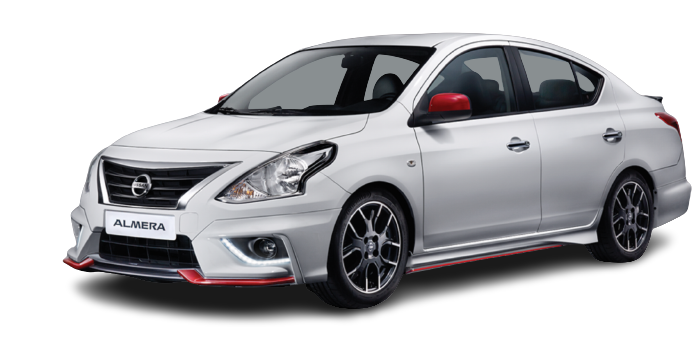
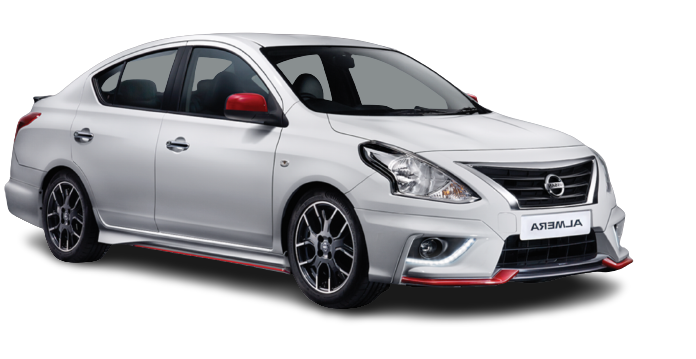
responsividade

diff --git a/src/components/car/style.scss b/src/components/car/style.scss
@@ -77,3 +77,244 @@
         }
     }
 }
+
+@media screen and (max-width: 1718px) {
+
+    .car-main-container {
+        .car {
+            .show-car {
+                .poste-img {
+                    left: 600px;
+                }
+            }
+        }
+    }
+
+}
+
+@media screen and (max-width: 1678px) {
+
+    .car-main-container {
+        .car {
+            .show-car {
+                .circle {
+                    width: 70%;
+                    max-height: 700px;
+                    bottom: -20px;
+                }
+            }
+        }
+    }
+
+}
+
+@media screen and (max-width: 1472px) {
+
+    .car-main-container {
+        .car {
+            .show-car {
+                .circle {
+                    width: 80%;
+                    bottom: -20px;
+                    left: -80px;
+                }
+
+                .poste-img {
+                    left: 500px;
+                }
+            }
+        }
+    }
+}
+
+.car-main-container-mobile {
+    display: none;
+}
+
+@media screen and (max-width: 1286px) {
+
+    .car-main-container {
+        width: 100%;
+
+        .car {
+            display: flex;
+            flex-direction: column;
+
+            .desc-car {
+                z-index: 999;
+                width: 100vh;
+
+                div:nth-child(1) {
+                    width: 100%;
+                    font-size: 4rem;
+                    text-align: center;
+                }
+            }
+
+            .show-car {
+                width: 100vh;
+
+                .circle {
+                    width: 80%;
+                    bottom: -20px;
+                }
+
+                .poste-img {
+                    max-width: 300px;
+                }
+            }
+        }
+    }
+}
+
+@media screen and (max-width: 1172px) {
+    .car-main-container {
+        display: none;
+    }
+
+    .car-main-container-mobile {
+        width: 100vw;
+        display: block;
+
+        .car-mobile {
+            width: 90%;
+            display: flex;
+            position: relative;
+            align-items: center;
+            flex-direction: column;
+
+            .neon {
+                top: 33%;
+                z-index: 1;
+                max-width: 80%;
+                position: absolute;
+            }
+
+            div:nth-child(1) {
+                width: 100%;
+                font-size: 4rem;
+                margin-top: 220px;
+                text-align: center;
+                margin-bottom: 20px;
+                color: rgb(255, 255, 255);
+                font-family: 'Lato', sans-serif;
+            }
+
+            div:nth-child(2) {
+                width: 100%;
+                margin-bottom: 150px;
+
+                font-size: .8rem;
+                text-align: center;
+                color: rgb(196, 196, 196);
+                font-family: 'Lato', sans-serif;
+            }
+
+            .car-img-mobile {
+                z-index: 9;
+                max-width: 100%;
+            }
+
+        }
+    }
+}
+
+@media screen and (max-width: 1172px) {
+    .car-main-container-mobile {
+        .car-mobile {
+            div:nth-child(1) {
+                font-size: 3rem;
+            }
+        }
+    }
+}
+
+@media screen and (max-width: 861px) {
+    .car-main-container-mobile {
+
+        .car-mobile {
+
+            
+            .neon {
+                top: 43%;
+            }
+
+            div:nth-child(1) {
+                width: 80%;
+            }
+
+            div:nth-child(2) {
+                width: 60%;
+            }
+        }
+    }
+}
+
+@media screen and (max-width: 692px) {
+    .car-main-container-mobile {
+
+        .car-mobile {
+
+            .neon {
+                top: 53%;
+            }
+
+
+            div:nth-child(1) {
+                width: 80%;
+            }
+
+            div:nth-child(2) {
+                width: 80%;
+            }
+        }
+    }
+}
+@media screen and (max-width: 571px) {
+    .car-main-container-mobile {
+
+        .car-mobile {
+
+            .neon {
+                top: 59%;
+            }
+
+            div:nth-child(1) {
+                font-size: 2rem;
+
+            }
+        }
+    }
+}
+@media screen and (max-width: 490px) {
+    .car-main-container-mobile {
+
+        .car-mobile {
+
+            .neon {
+                top: 66%;
+            }
+        }
+    }
+}
+@media screen and (max-width: 393px) {
+    .car-main-container-mobile {
+
+        .car-mobile {
+
+            .neon {
+                top: 69%;
+            }
+
+            div:nth-child(1) {
+                width: 60%;
+            }
+            div:nth-child(2) {
+                width: 60%;
+            }
+            .car-img-mobile {
+                width: 80%;
+            }
+        }
+    }
+}

diff --git a/src/components/car/index.jsx b/src/components/car/index.jsx
@@ -1,6 +1,7 @@
 import './style.scss'
-import React, { useEffect } from "react";
 import Logo from "../logo"
+import React, { useEffect } from "react";
+
 const Car = (props) => {
 
     useEffect(() => {
@@ -19,17 +20,26 @@ const Car = (props) => {
     return (
         <>
             <Logo />
-            <div className='car-main-container' id='car' style={{ transform: props.scale ? "scale(-1,1)" : "scale(1,1)" }}>
+            <div className='car-main-container' id='car' style={{ transform: props.scale ? "scale(-1,1)" : null }}>
                 <div className='car'>
                     <div className='desc-car'>
-                        <div style={{ marginLeft: props?.margin, transform: props.scale ? "scaleX(-1)" : "scaleX(1)" }}>{props?.titulo}</div>
-                        <div style={{ marginLeft: props?.margin, transform: props.scale ? "scaleX(-1)" : "scaleX(1)" }}>{props?.desc}</div>
+                        <div style={{ marginLeft: props?.margin, transform: props.scale ? "scaleX(-1)" : null }}>{props?.titulo}</div>
+                        <div style={{ marginLeft: props?.margin, transform: props.scale ? "scaleX(-1)" : null }}>{props?.desc}</div>
                     </div>
                     <div className='show-car'>
-                        <div className='circle' style={{ left: props.left ? props.left : null, top: props.top ? props.top : null }}></div>
-                        <img className='car-img' src={props.img} style={{ transform: props.scale ? "scaleX(-1)" : "scaleX(1)" }} />
-                        <img className='poste-img' src={require('../../image/poste.png')} style={{ left: props.poste ? props.poste : null }} />
+                        <div className='circle' style={{ transform: props.scale ? "scaleX(-1)" : null }}></div>
+                        <img className='car-img' src={props.img} style={{ transform: props.scale ? "scaleX(1)" : null }} />
+                        <img className='poste-img' style={{ transform: props.scale ? "scaleX(-1)" : null }} src={require('../../image/poste.png')} />
                     </div>
+                </div>
+            </div>
+
+            <div className='car-main-container-mobile' id='car'>
+                <div className='car-mobile'>
+                    <div>{props?.titulo}</div>
+                    <div>{props?.desc}</div>
+                    <img className='neon' src={require('../../image/neon2.png')} alt="" />
+                    <img className='car-img-mobile' src={props.img} />
                 </div>
             </div>
         </>

diff --git a/src/page/dealership/index.jsx b/src/page/dealership/index.jsx
@@ -11,31 +11,21 @@ const Dealership = () => {
                 desc={"O veículo possui motor 3. 8 V6 biturbo de 550cv (original), câmbio automático de 6 marchas e tração integral."}
                 img={require('../../image/Nissan-Skyline-GT-R-R34.png')}
             />
-
             <Car
-                scale={true}
-                img={require('../../image/car3.png')}
-                left={-110}
-                poste={460}
-                top={200}
-                titulo={"GT-R Premium GTR 2017"}
+                titulo={"Nissan Skyline GT-R R34"}
                 desc={"O veículo possui motor 3. 8 V6 biturbo de 550cv (original), câmbio automático de 6 marchas e tração integral."}
+                scale={true}
+                img={require('../../image/Nissan-Skyline-GT-R-R34.png')}
             />
             <Car
-                top={200}
-                left={-110}
-                poste={400}
-                titulo={"Nissan Juke"}
-                desc={"Novo Nissan JUKE Híbrido Uma experiência eletrificada emocionante"}
-                img={require('../../image/car4.png')} />
+                titulo={"Nissan Skyline GT-R R34"}
+                desc={"O veículo possui motor 3. 8 V6 biturbo de 550cv (original), câmbio automático de 6 marchas e tração integral."}
+                img={require('../../image/Nissan-Skyline-GT-R-R34.png')} />
             <Car
+                titulo={"Nissan Skyline GT-R R34"}
+                desc={"O veículo possui motor 3. 8 V6 biturbo de 550cv (original), câmbio automático de 6 marchas e tração integral."}
                 scale={true}
-                img={require('../../image/car5.png')}
-                left={-110}
-                poste={360}
-                top={200}
-                titulo={"Nissan Almera Car Malaysia Nissan X-Trail"}
-                desc={"SUV de tecnologia avançada que torna cada condução mais confiante, segura e agradável. Com 5 Anos de garantia, Serviço de Manutenção Gratuito 5X e IMPUL Aerokit no valor de RM5.600. 5 anos de garantia. Segurança inteligente. Grátis IMPUL Aerokit. Manutenção 5X gratuita."}
+                img={require('../../image/Nissan-Skyline-GT-R-R34.png')}
             />
         </>
     )
